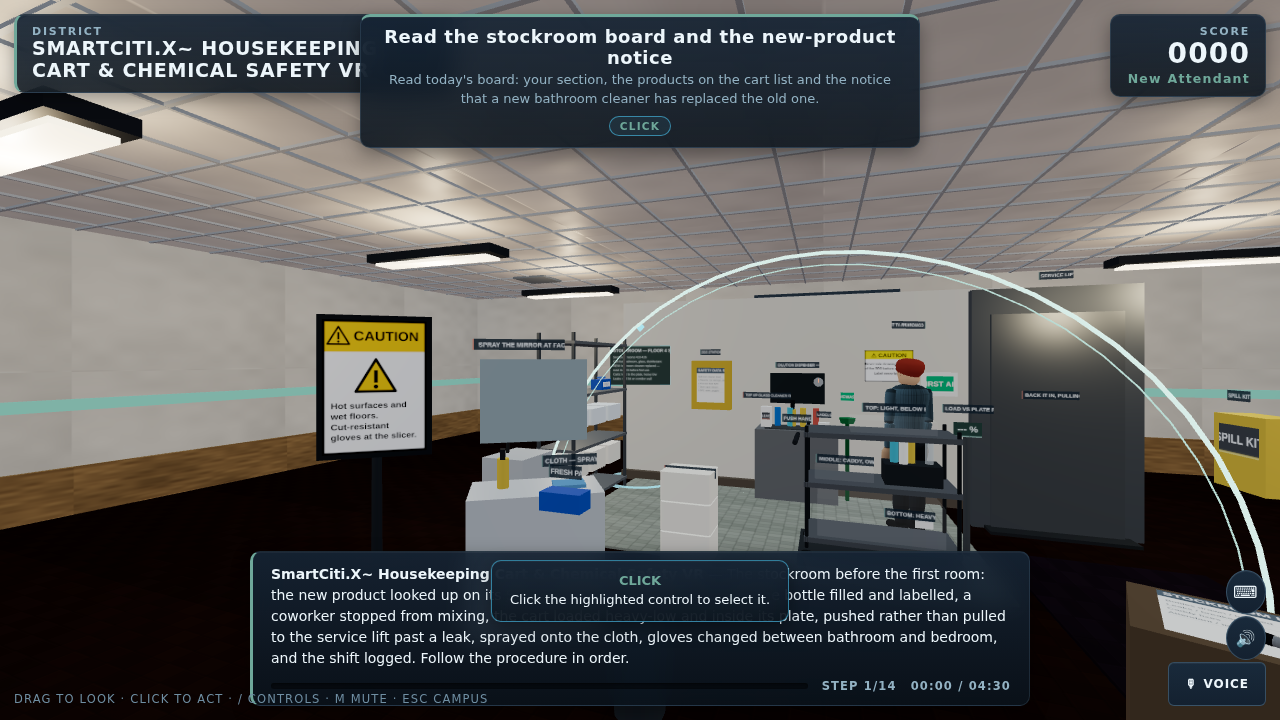
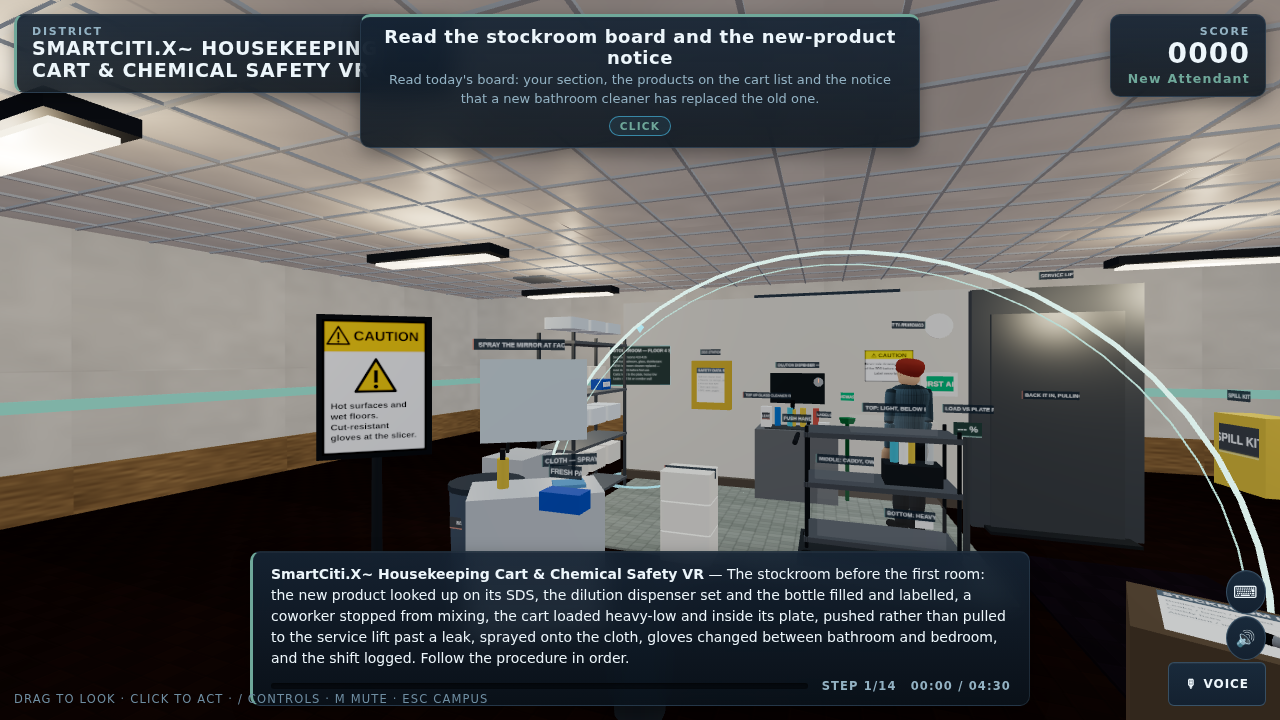
Move the permit station's idling truck clear of the union sign, rebundle, and add spawn screenshots for the six stations

Changed region(s): [[0.375, 0.7639, 0.625, 0.8861], [0.3438, 0.4278, 0.4688, 0.7639], [0.0938, 0.6417, 0.1562, 0.6722]]

diff --git a/WebXR/dist/sims/cs-permit-entry-and-attendant-duties.js b/WebXR/dist/sims/cs-permit-entry-and-attendant-duties.js
@@ -348,9 +348,9 @@ export const SIM_CS_PERMIT_ENTRY_AND_ATTENDANT_DUTIES = {
     reg(hits, countMark, "count-zero");
 
     // ------------------------------------------------------ perimeter changes
-    const truck = pickup(g, 3.5, 0, 0.3, { ry: 0 });
+    const truck = pickup(g, 4.4, 0, -1.0, { ry: 0 });
     reg(hits, truck, "idling-truck");
-    holoTag(g, "idling upwind", 3.5, 2.2, 0.3, { css: CPE_WARN, w: 0.3 });
+    holoTag(g, "idling upwind", 4.4, 2.2, -1.0, { css: CPE_WARN, w: 0.3 });
     const visitor = standingFigure(g, -0.9, -0.2, { ry: 2.8, cloth: 0xdfe4e8, trousers: 0x3a4148, atStation: true });
     holoTag(visitor, "visitor — inside the barrier", 0, 1.95, 0, { css: CPE_WARN, w: 0.44 });
     reg(hits, visitor, "visitor-in-barrier");
@@ -391,7 +391,7 @@ export const SIM_CS_PERMIT_ENTRY_AND_ATTENDANT_DUTIES = {
         if (step.id === "roles-signed") { for (const m of [supSign, attInit, entInit]) m.material = mat(0x2f7d4a, { opacity: 0.8, transparent: true }); }
         if (step.id === "post-opening") { chain.visible = true; sign.visible = true; barrierHit.visible = false; }
         if (step.id === "tag-in") { tag.position.x = 0.12; entrant.visible = true; }
-        if (step.id === "perimeter") { truck.position.x = 4.6; visitor.visible = false; hoseHit.visible = false; washHose.visible = false; }
+        if (step.id === "perimeter") { truck.position.x = 5.6; visitor.visible = false; hoseHit.visible = false; washHose.visible = false; }
         if (step.id === "tag-out") { tag.position.x = -0.12; entrant.visible = false; cover.position.set(0, 1.2, 1.22); }
       },
       onInterrupt(it) {

diff --git a/WebXR/smartcity/dist/sims/cs-permit-entry-and-attendant-duties.js b/WebXR/smartcity/dist/sims/cs-permit-entry-and-attendant-duties.js
@@ -348,9 +348,9 @@ export const SIM_CS_PERMIT_ENTRY_AND_ATTENDANT_DUTIES = {
     reg(hits, countMark, "count-zero");
 
     // ------------------------------------------------------ perimeter changes
-    const truck = pickup(g, 3.5, 0, 0.3, { ry: 0 });
+    const truck = pickup(g, 4.4, 0, -1.0, { ry: 0 });
     reg(hits, truck, "idling-truck");
-    holoTag(g, "idling upwind", 3.5, 2.2, 0.3, { css: CPE_WARN, w: 0.3 });
+    holoTag(g, "idling upwind", 4.4, 2.2, -1.0, { css: CPE_WARN, w: 0.3 });
     const visitor = standingFigure(g, -0.9, -0.2, { ry: 2.8, cloth: 0xdfe4e8, trousers: 0x3a4148, atStation: true });
     holoTag(visitor, "visitor — inside the barrier", 0, 1.95, 0, { css: CPE_WARN, w: 0.44 });
     reg(hits, visitor, "visitor-in-barrier");
@@ -391,7 +391,7 @@ export const SIM_CS_PERMIT_ENTRY_AND_ATTENDANT_DUTIES = {
         if (step.id === "roles-signed") { for (const m of [supSign, attInit, entInit]) m.material = mat(0x2f7d4a, { opacity: 0.8, transparent: true }); }
         if (step.id === "post-opening") { chain.visible = true; sign.visible = true; barrierHit.visible = false; }
         if (step.id === "tag-in") { tag.position.x = 0.12; entrant.visible = true; }
-        if (step.id === "perimeter") { truck.position.x = 4.6; visitor.visible = false; hoseHit.visible = false; washHose.visible = false; }
+        if (step.id === "perimeter") { truck.position.x = 5.6; visitor.visible = false; hoseHit.visible = false; washHose.visible = false; }
         if (step.id === "tag-out") { tag.position.x = -0.12; entrant.visible = false; cover.position.set(0, 1.2, 1.22); }
       },
       onInterrupt(it) {

diff --git a/WebXR/smartcity/js/sims/cs-permit-entry-and-attendant-duties.js b/WebXR/smartcity/js/sims/cs-permit-entry-and-attendant-duties.js
@@ -348,9 +348,9 @@ export const SIM_CS_PERMIT_ENTRY_AND_ATTENDANT_DUTIES = {
     reg(hits, countMark, "count-zero");
 
     // ------------------------------------------------------ perimeter changes
-    const truck = pickup(g, 3.5, 0, 0.3, { ry: 0 });
+    const truck = pickup(g, 4.4, 0, -1.0, { ry: 0 });
     reg(hits, truck, "idling-truck");
-    holoTag(g, "idling upwind", 3.5, 2.2, 0.3, { css: CPE_WARN, w: 0.3 });
+    holoTag(g, "idling upwind", 4.4, 2.2, -1.0, { css: CPE_WARN, w: 0.3 });
     const visitor = standingFigure(g, -0.9, -0.2, { ry: 2.8, cloth: 0xdfe4e8, trousers: 0x3a4148, atStation: true });
     holoTag(visitor, "visitor — inside the barrier", 0, 1.95, 0, { css: CPE_WARN, w: 0.44 });
     reg(hits, visitor, "visitor-in-barrier");
@@ -391,7 +391,7 @@ export const SIM_CS_PERMIT_ENTRY_AND_ATTENDANT_DUTIES = {
         if (step.id === "roles-signed") { for (const m of [supSign, attInit, entInit]) m.material = mat(0x2f7d4a, { opacity: 0.8, transparent: true }); }
         if (step.id === "post-opening") { chain.visible = true; sign.visible = true; barrierHit.visible = false; }
         if (step.id === "tag-in") { tag.position.x = 0.12; entrant.visible = true; }
-        if (step.id === "perimeter") { truck.position.x = 4.6; visitor.visible = false; hoseHit.visible = false; washHose.visible = false; }
+        if (step.id === "perimeter") { truck.position.x = 5.6; visitor.visible = false; hoseHit.visible = false; washHose.visible = false; }
         if (step.id === "tag-out") { tag.position.x = -0.12; entrant.visible = false; cover.position.set(0, 1.2, 1.22); }
       },
       onInterrupt(it) {
